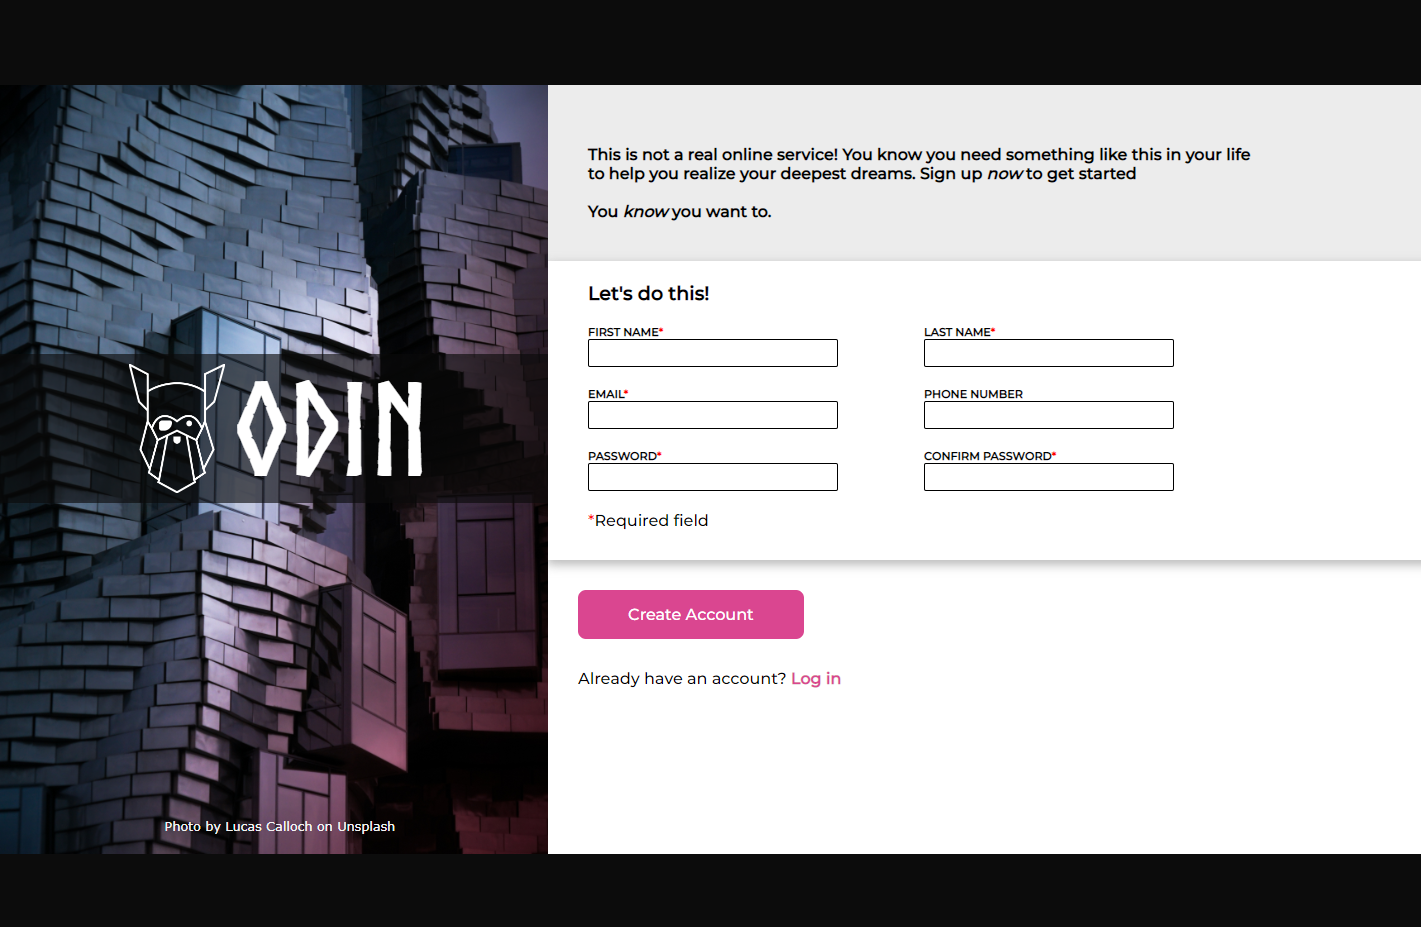
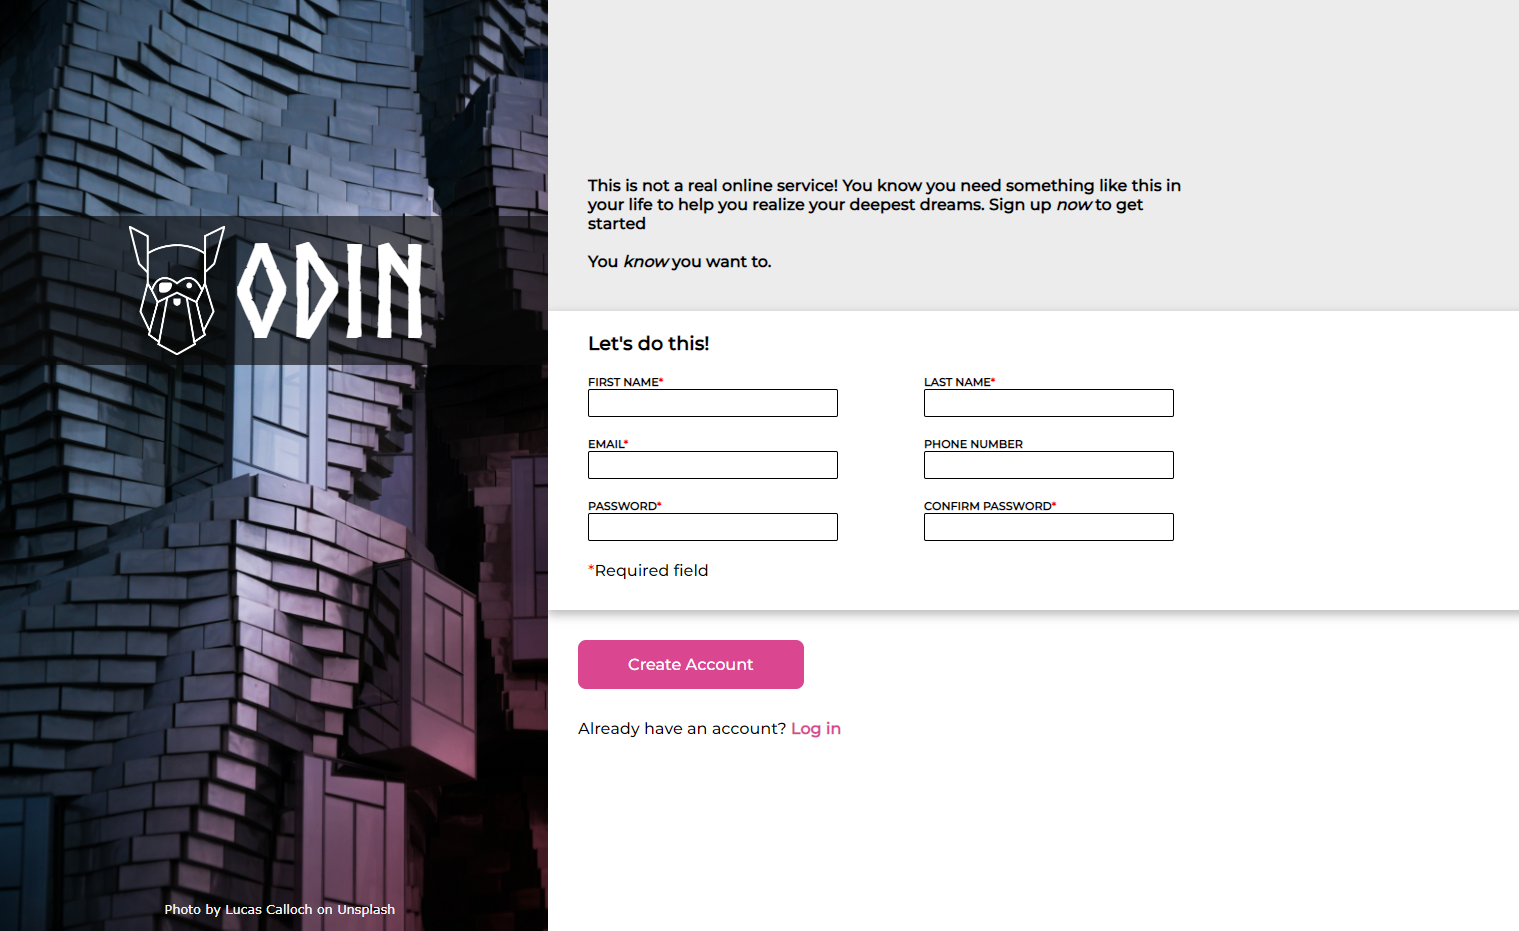
minor style adjustments

diff --git a/styles.css b/styles.css
@@ -12,13 +12,8 @@
 
 .main-container {
   display: flex;
-  height: 80vh;    
+  height: 100vh;    
 }
-header, footer {
-  background-color: rgb(12, 12, 12);
-  height: 10vh;
-}
-
 .image-container {
   width: 30vw;
   min-width: 350px;
@@ -36,7 +31,7 @@ header, footer {
 
 .title-container {
   position: absolute;
-  top: 35%;
+  top: 25%;
   display: flex;
   justify-content: center;
   align-items: center;
@@ -67,7 +62,7 @@ span {
   min-width: 30%;
 }
 .intro {
-  padding: 60px 60px 40px 40px;
+  padding: 200px 60px 40px 40px;
   width: 100%;
   background-color: rgba(0, 0, 0, 0.075);
   min-width:40%
@@ -76,7 +71,7 @@ span {
   font-weight: 700;
 }
 .intro-text {
-  max-width: 50%;
+  max-width: 45%;
 }
 .form-container {
   width:70vw;     

diff --git a/index.html b/index.html
@@ -6,8 +6,7 @@
   <meta name="viewport" content="width=device-width, initial-scale=1.0">
   <title>Sign-up Form</title>
 </head>
-<body>
-  <header></header>
+<body>  
   <div class="main-container">
 
     <div class="image-container">
@@ -59,8 +58,7 @@
         <button type="submit" form="form" class="create-account">Create Account</button>
         <div class="login">Already have an account? <span class="highlight">Log in</span></div>
       </div>
-    </div>
-  <footer></footer>
+    </div>  
   
   <link rel="stylesheet" href="styles.css">
 </body>
